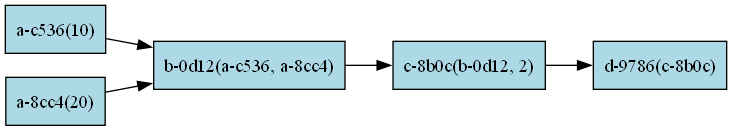
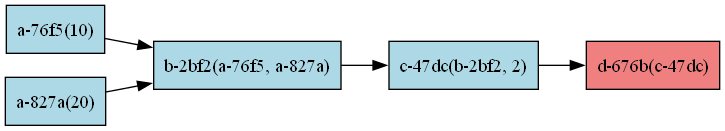
DAG class improved

Changed region(s): [[0.5159, 0.3053, 1.0, 0.7023], [0.0, 0.3053, 0.4552, 0.9466], [0.0, 0.0305, 0.1214, 0.3969]]

diff --git a/src/DAG.py b/src/DAG.py
@@ -2,7 +2,7 @@ from dataclasses import dataclass
 from datetime import datetime
 import uuid
 from functools import wraps
-from typing import Callable, TypeVar, Generic
+from typing import Callable, TypeVar, Generic, List, Dict, Set
 import cloudpickle
 import graphviz
 import os
@@ -22,7 +22,7 @@ class DAGTaskNode(Generic[R]):
         self.func_code = func
         self.func_args = args
         self.func_kwargs = kwargs
-        self.downstream_nodes: list[str] = []
+        self.downstream_nodes: List['DAGTaskNode'] = []
         self._register_dependencies()
         
     def _register_dependencies(self):
@@ -30,13 +30,13 @@ class DAGTaskNode(Generic[R]):
         # Check args for DAGNode instances
         for arg in self.func_args:
             if isinstance(arg, DAGTaskNode):
-                arg.downstream_nodes.append(self.task_id)
+                arg.downstream_nodes.append(self)
                 
         # Check kwargs for DAGNode instances
         for _, value in self.func_kwargs.items():
             if isinstance(value, DAGTaskNode):
-                value.downstream_nodes.append(self.task_id)
-    
+                value.downstream_nodes.append(self)
+
     def __repr__(self):
         return f"DAGTaskNode({self.func_name}, id={self.task_id})"
 
@@ -44,18 +44,37 @@ class DAGTaskNode(Generic[R]):
 class DAG:
     """A class to represent a directed acyclic graph of tasks."""
     
-    """A class to represent a directed acyclic graph of tasks."""
-    
     def __init__(self, sink_node: DAGTaskNode):
         """Create a DAG from sink node (node with no downstream tasks)."""
         self.sink_node = sink_node
-        self.all_nodes: dict[str, DAGTaskNode] = {}
+        self.all_nodes: Dict[str, DAGTaskNode] = {}
+        self.root_nodes: List[DAGTaskNode] = []
         self._build_graph()
-        self._convert_node_refs_to_ids()
+        self._identify_root_nodes()
+        self._convert_node_func_args_to_ids()
+    
+    def _identify_root_nodes(self):
+        """Identify root nodes (nodes with no upstream dependencies)."""
+        # First, collect all nodes that are dependencies of other nodes
+        dependency_nodes = set()
+        for node in self.all_nodes.values():
+            for arg in node.func_args:
+                if isinstance(arg, DAGTaskNode):
+                    dependency_nodes.add(arg.task_id)
+            
+            for _, value in node.func_kwargs.items():
+                if isinstance(value, DAGTaskNode):
+                    dependency_nodes.add(value.task_id)
+        
+        # Root nodes are all nodes that aren't dependencies of other nodes
+        self.root_nodes = [
+            node for node_id, node in self.all_nodes.items()
+            if node_id not in dependency_nodes
+        ]
 
     def _build_graph(self):
         """Build the complete graph by traversing from sink node upward."""
-        visited: set[str] = set()
+        visited: Set[str] = set()
         
         def visit(node: DAGTaskNode):
             if node.task_id in visited:
@@ -74,10 +93,9 @@ class DAG:
         
         visit(self.sink_node)
     
-    def _convert_node_refs_to_ids(self):
+    def _convert_node_func_args_to_ids(self):
         """
-        Convert all DAGTaskNode references in func_args and func_kwargs to DAGTaskNodeId.
-        This is done after building the graph to avoid duplicate node information.
+        Convert all DAGTaskNode references in {func_args} and {func_kwargs} to DAGTaskNodeId to save space
         """
         for node in self.all_nodes.values():
             # Convert func_args
@@ -102,81 +120,7 @@ class DAG:
         """Retrieve a node by its ID."""
         return self.all_nodes.get(node_id)
 
-    def get_json(self):
-        def get_topo_sort():
-            result = []
-            visited = set()
-            temp_marks = set()
-            
-            def visit(node_id):
-                if node_id in temp_marks:
-                    # We have a cycle, which shouldn't happen in a DAG
-                    raise ValueError(f"Cycle detected in DAG involving node {node_id}")
-                
-                if node_id not in visited:
-                    temp_marks.add(node_id)
-                    
-                    node = self.all_nodes[node_id]
-                    # Visit all dependencies (upstream nodes)
-                    for arg in node.func_args:
-                        if isinstance(arg, DAGTaskNodeId):
-                            visit(arg.value)
-                            
-                    for value in node.func_kwargs.values():
-                        if isinstance(value, DAGTaskNodeId):
-                            visit(value.value)
-                    
-                    temp_marks.remove(node_id)
-                    visited.add(node_id)
-                    result.append(node_id)
-            
-            # Visit all nodes
-            for node_id in self.all_nodes:
-                if node_id not in visited:
-                    visit(node_id)
-                    
-            return result
-        
-        # Get topologically sorted nodes (source to sink order)
-        topo_sort = get_topo_sort()
-        
-        # Build the JSON representation
-        dag_json = {
-            "nodes": {}
-        }
-        
-        # Add nodes in topological order
-        for node_id in topo_sort:
-            node = self.all_nodes[node_id]
-            
-            # Format arguments
-            formatted_args = []
-            for arg in node.func_args:
-                if isinstance(arg, DAGTaskNodeId):
-                    formatted_args.append({"type": "node_reference", "node_id": arg.value})
-                else:
-                    formatted_args.append({"type": "value", "value": str(arg)})
-            
-            # Format keyword arguments
-            formatted_kwargs = {}
-            for key, value in node.func_kwargs.items():
-                if isinstance(value, DAGTaskNodeId):
-                    formatted_kwargs[key] = {"type": "node_reference", "node_id": value.value}
-                else:
-                    formatted_kwargs[key] = {"type": "value", "value": str(value)}
-            
-            # Add node to JSON
-            dag_json["nodes"][node_id] = {
-                "id": node_id,
-                "function_name": node.func_name,
-                "args": formatted_args,
-                "kwargs": formatted_kwargs,
-                "downstream_nodes": [tid for tid in node.downstream_nodes]
-            }
-        
-        return dag_json
-
-    def visualize(self, output_file="dag_graph.png", ):
+    def visualize(self, output_file="dag_graph.png", highlight_roots=True, highlight_sink=True):
         # Create a new directed graph
         dot = graphviz.Digraph(
             comment="DAG Visualization",
@@ -210,13 +154,23 @@ class DAG:
             # Create the node label
             label = f"{node.task_id}({', '.join(args_strs)})"
             
+            # Determine node style based on whether it's a root or sink node
+            node_style = "filled"
+            node_color = "lightblue"
+            
+            if highlight_roots and node in self.root_nodes:
+                node_color = "lightgreen"  # Root nodes in green
+            
+            if highlight_sink and node.task_id == self.sink_node.task_id:
+                node_color = "lightcoral"  # Sink node in red
+            
             # Add the node to the graph
-            dot.node(node_id, label=label, shape="box", style="filled", fillcolor="lightblue")
+            dot.node(node_id, label=label, shape="box", style=node_style, fillcolor=node_color)
         
         # Add edges
         for node_id, node in self.all_nodes.items():
-            for tid in node.downstream_nodes:
-                dot.edge(node_id, tid)
+            for downstream_node in node.downstream_nodes:
+                dot.edge(node_id, downstream_node.task_id)
         
         # Render the graph to a file
         try:
@@ -245,6 +199,7 @@ class DAG:
     @classmethod
     def from_serialized(cls, serialized_dag: bytes):
         return cloudpickle.loads(serialized_dag)
+
 
 def DAGTask(func: Callable[..., R]) -> Callable[..., DAGTaskNode[R]]:
     """Decorator to convert a function into a DAG node task."""

diff --git a/test.py b/test.py
@@ -28,12 +28,7 @@ d1 = d(c1)
 # dag_json = d1.dag_json()
 # print(json.dumps(dag_json, indent=2))
 
-# s = d1.serialize()
-# dr: DAGNode[Any] = DAGNode.from_serialized(s)
-
 # res = d1.compute()
 dag = DAG(d1)
-# dag.visualize()
-print(f"Result: {json.dumps(dag.get_json(), indent=2)}")
 
 # d1.dag_visualize()
